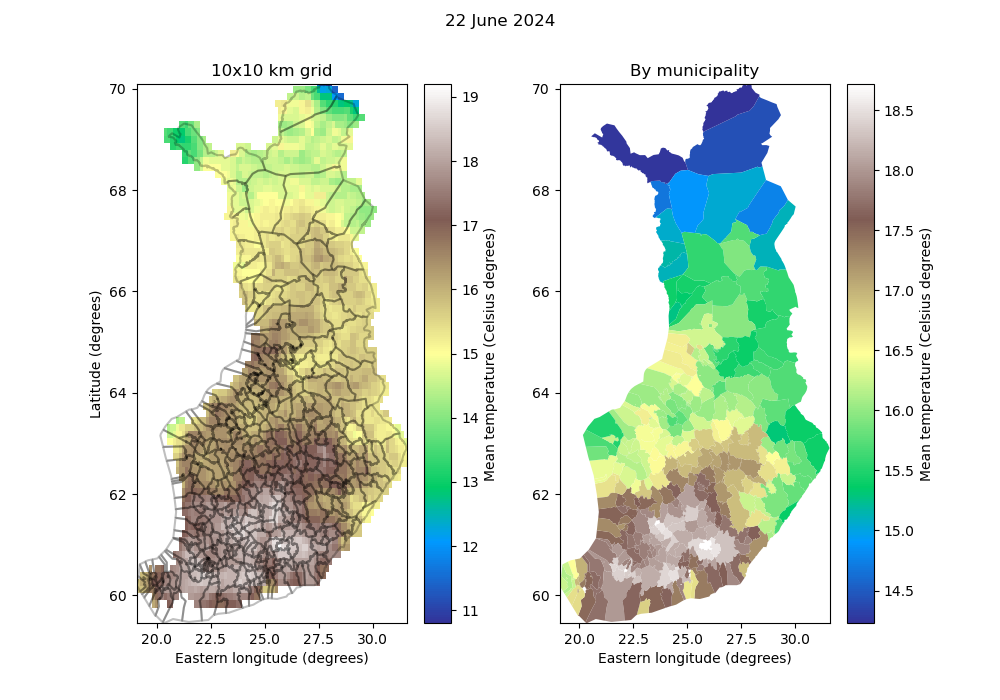
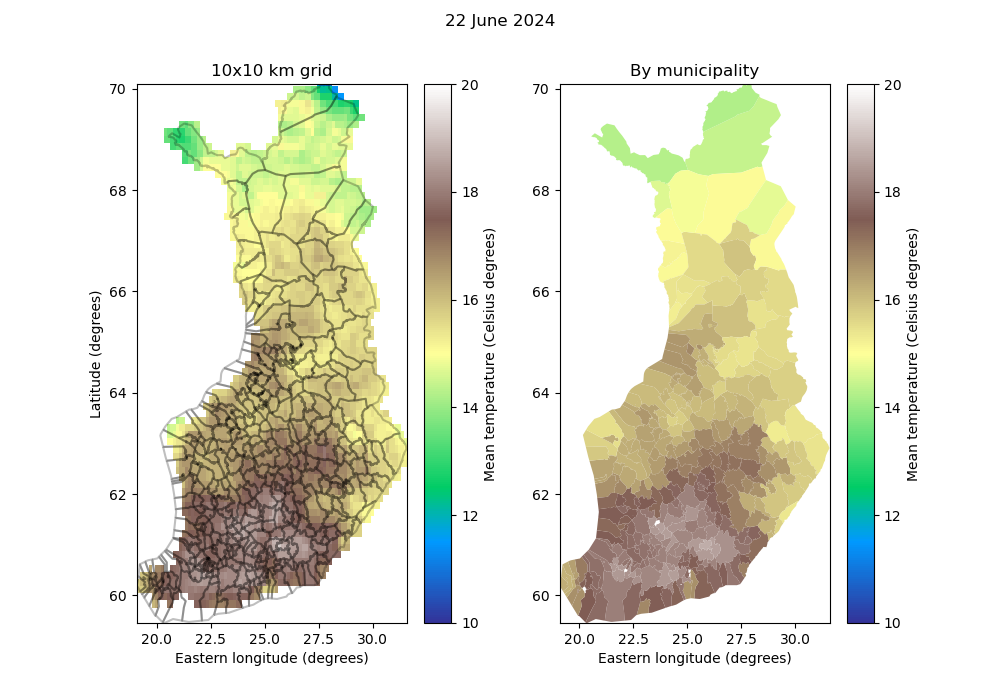
Add the option to define the colorbar limits

diff --git a/mean_temp_per_month.py b/mean_temp_per_month.py
@@ -48,7 +48,7 @@ def read_data(path,year=2024):
    return municipalities,temp
 
 #--------------------------------------------------------------------
-def plot_temperature_maps(municipalities,temp_avg,
+def plot_temperature_maps(municipalities,temp_avg,vmin=0,vmax=30,
          year=2024,month=1,day=None):
    """
    Read the data for the year of interest.
@@ -81,7 +81,8 @@ def plot_temperature_maps(municipalities,temp_avg,
 
    fig, axs = plt.subplots(1, 2, figsize=(10,7))
 
-   im = temp_avg.plot(ax=axs[0], cmap='terrain', add_colorbar=True)
+   im = temp_avg.plot(ax=axs[0], cmap='terrain', vmin=vmin,vmax=vmax,
+            add_colorbar=True)
    municipalities.boundary.plot(ax=axs[0], color='k', alpha=0.25)
 
    colorbar = im.colorbar
@@ -95,7 +96,7 @@ def plot_temperature_maps(municipalities,temp_avg,
 
 
    municipalities.plot(ax=axs[1], column="temperature", cmap="terrain",
-          linewidth=0,  legend=True,
+          vmin=vmin,vmax=vmax, linewidth=0,  legend=True,
           legend_kwds={"label": "Mean temperature (Celsius degrees)"}
           )
    axs[1].set_title('By municipality')
@@ -123,11 +124,17 @@ parser.add_argument("--month", type=int, default=1,
                     help="Month (number) of interest.")
 parser.add_argument("--day", type=int,
                     help="Day of interest.")
+parser.add_argument("--vmin", type=float,
+                    help="Minimum of colorscale.")
+parser.add_argument("--vmax", type=float,
+                    help="Maximum of colorscale.")
 
 args  = parser.parse_args()
 year  = args.year
 month = args.month
 day   = args.day
+vmin  = args.vmin
+vmax  = args.vmax
 
 
 # Paths definition
@@ -150,7 +157,8 @@ muni_temp = temperature_by_municipality(municipalities,temp_daily)
 municipalities["temperature"] = muni_temp
 
 
-fig = plot_temperature_maps(municipalities,temp_avg,year,month,day)
+fig = plot_temperature_maps(municipalities,temp_avg,vmin=10,vmax=20,
+         year=year,month=month,day=day)
 if(day is None):
    fig.savefig(FIG_DIRECTORY / 
                f"Mean_temperature_{month_name[month]}_{year}.png")
